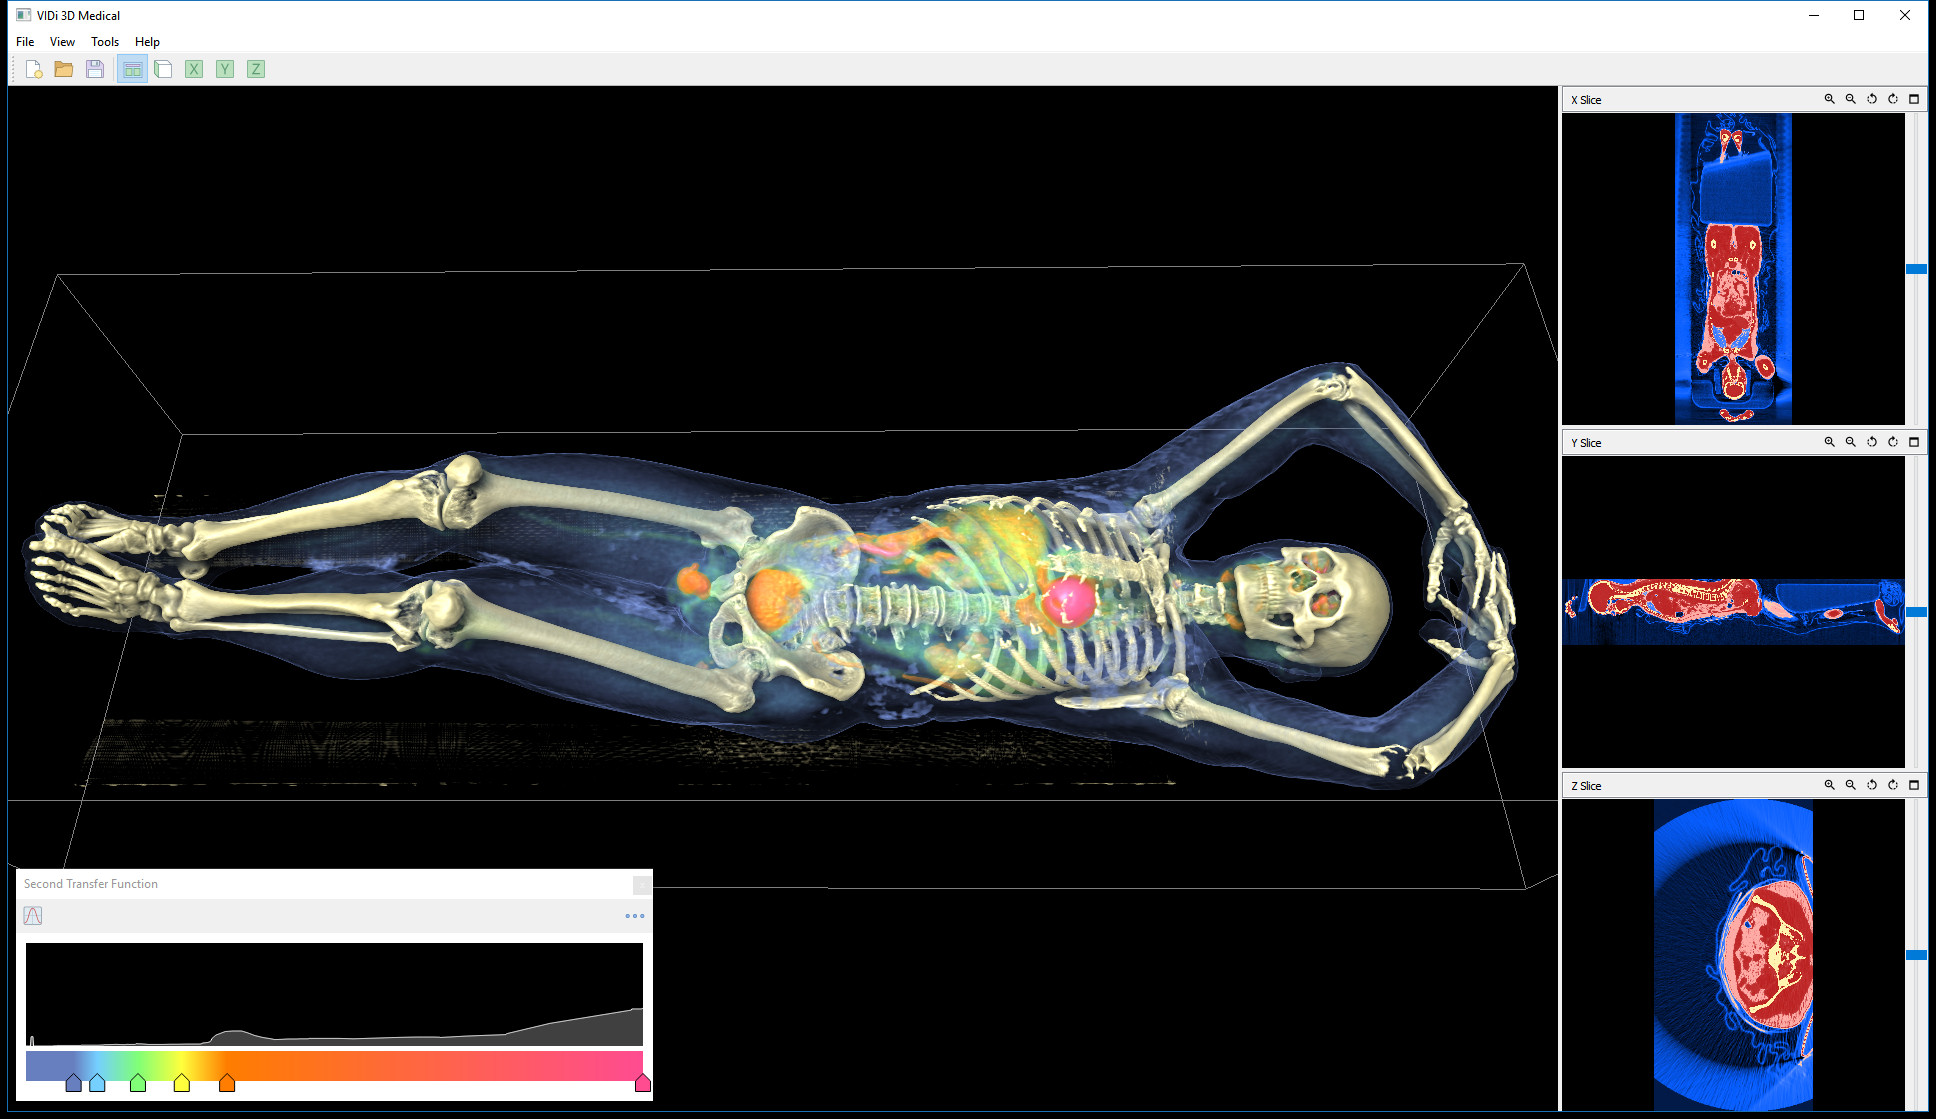
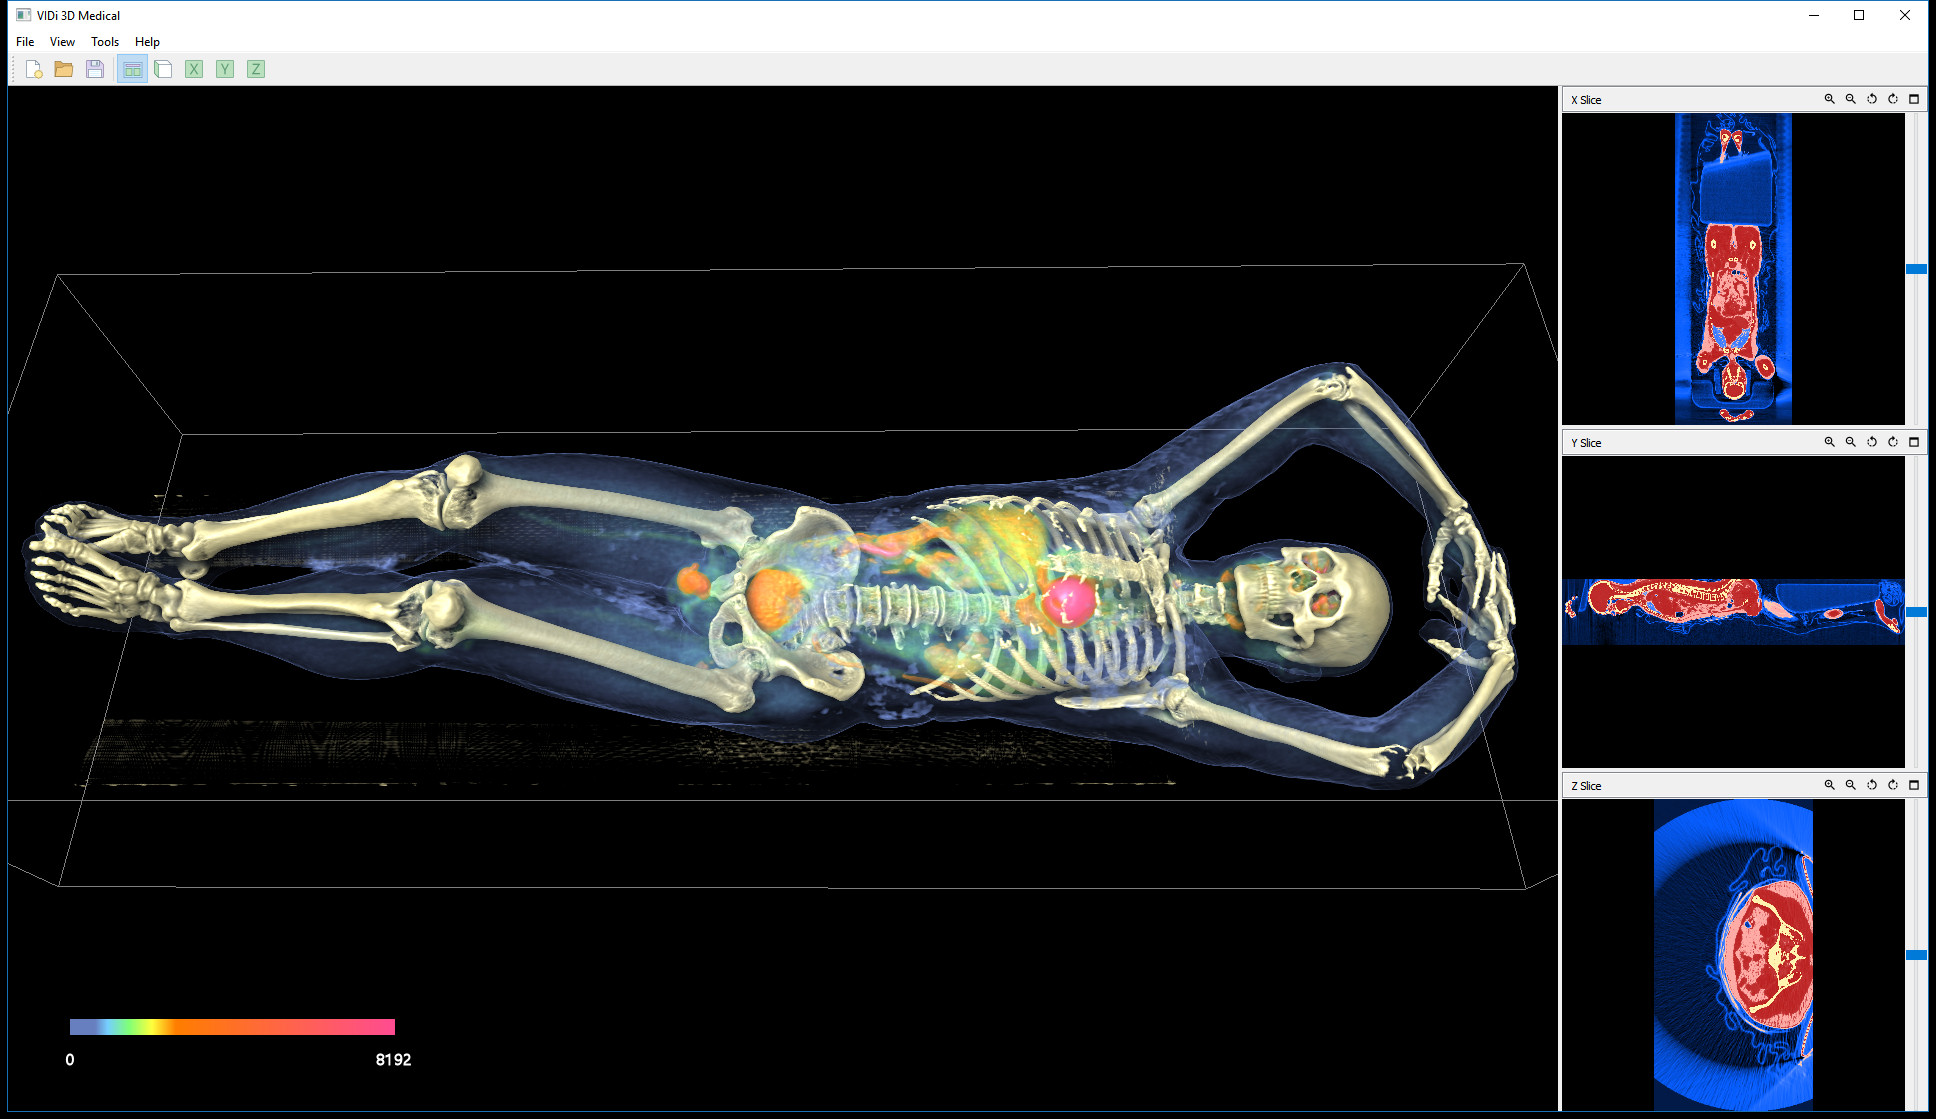
update PET/CT images

Changed region(s): [[0.0, 0.7596, 0.3409, 1.0]]

diff --git a/gallery/full_body_pet_ct/index.html b/gallery/full_body_pet_ct/index.html
@@ -83,8 +83,8 @@
             </div>
             <div class="col-sm-6 col-md-4">
                 <div class="thumbnail">
-                    <a class="lightbox" href="./images/PET_filtered_CT.jpg">
-                        <img src="./images/PET_filtered_CT.jpg" alt="PET-filtered CT">
+                    <a class="lightbox" href="./images/PET_filtered_CT_filter_function.jpg">
+                        <img src="./images/PET_filtered_CT_filter_function.jpg" alt="PET-filtered CT">
                     </a>
                     <div class="caption">
                         <h3>PET-filtered CT</h3>
